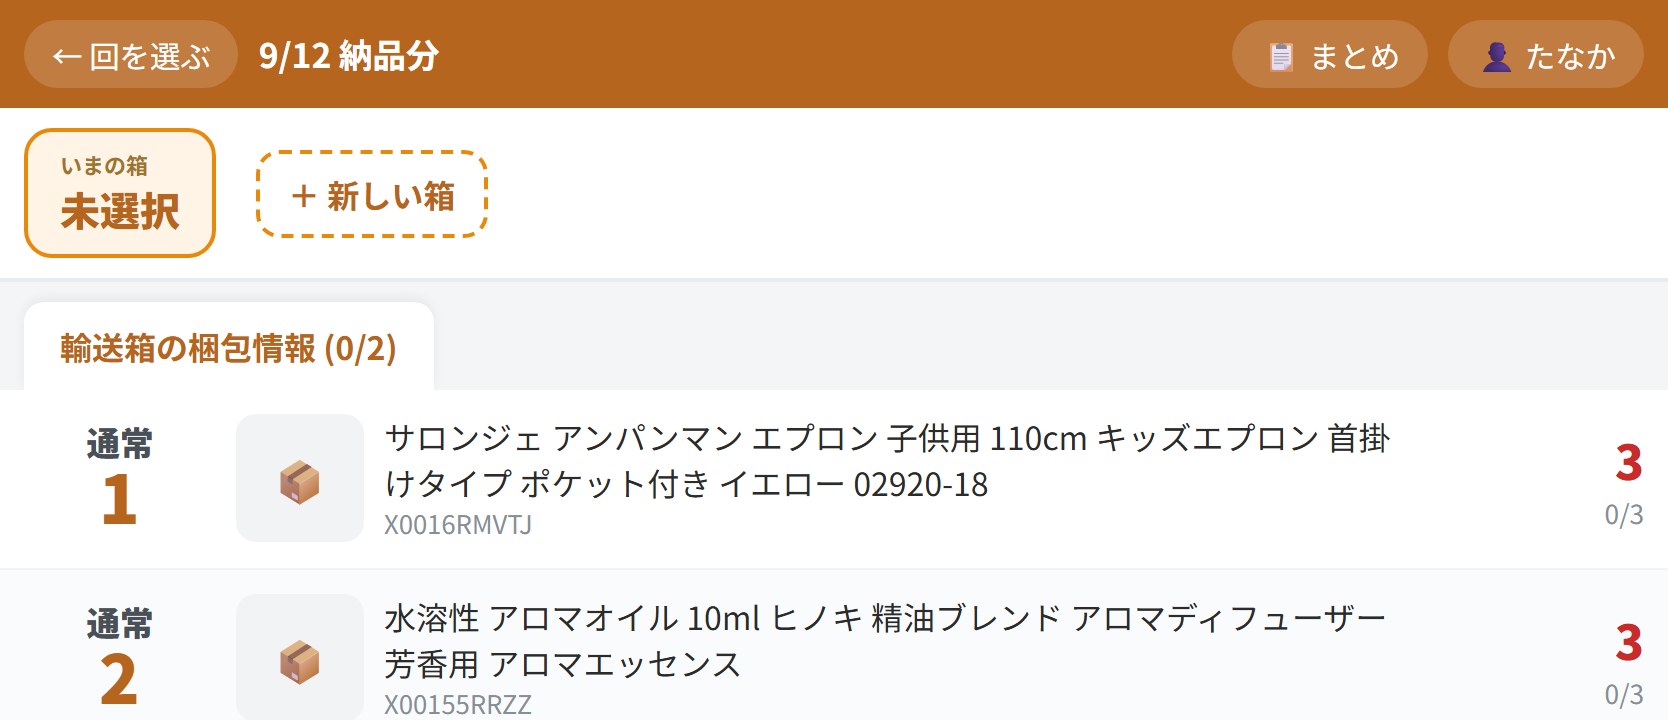
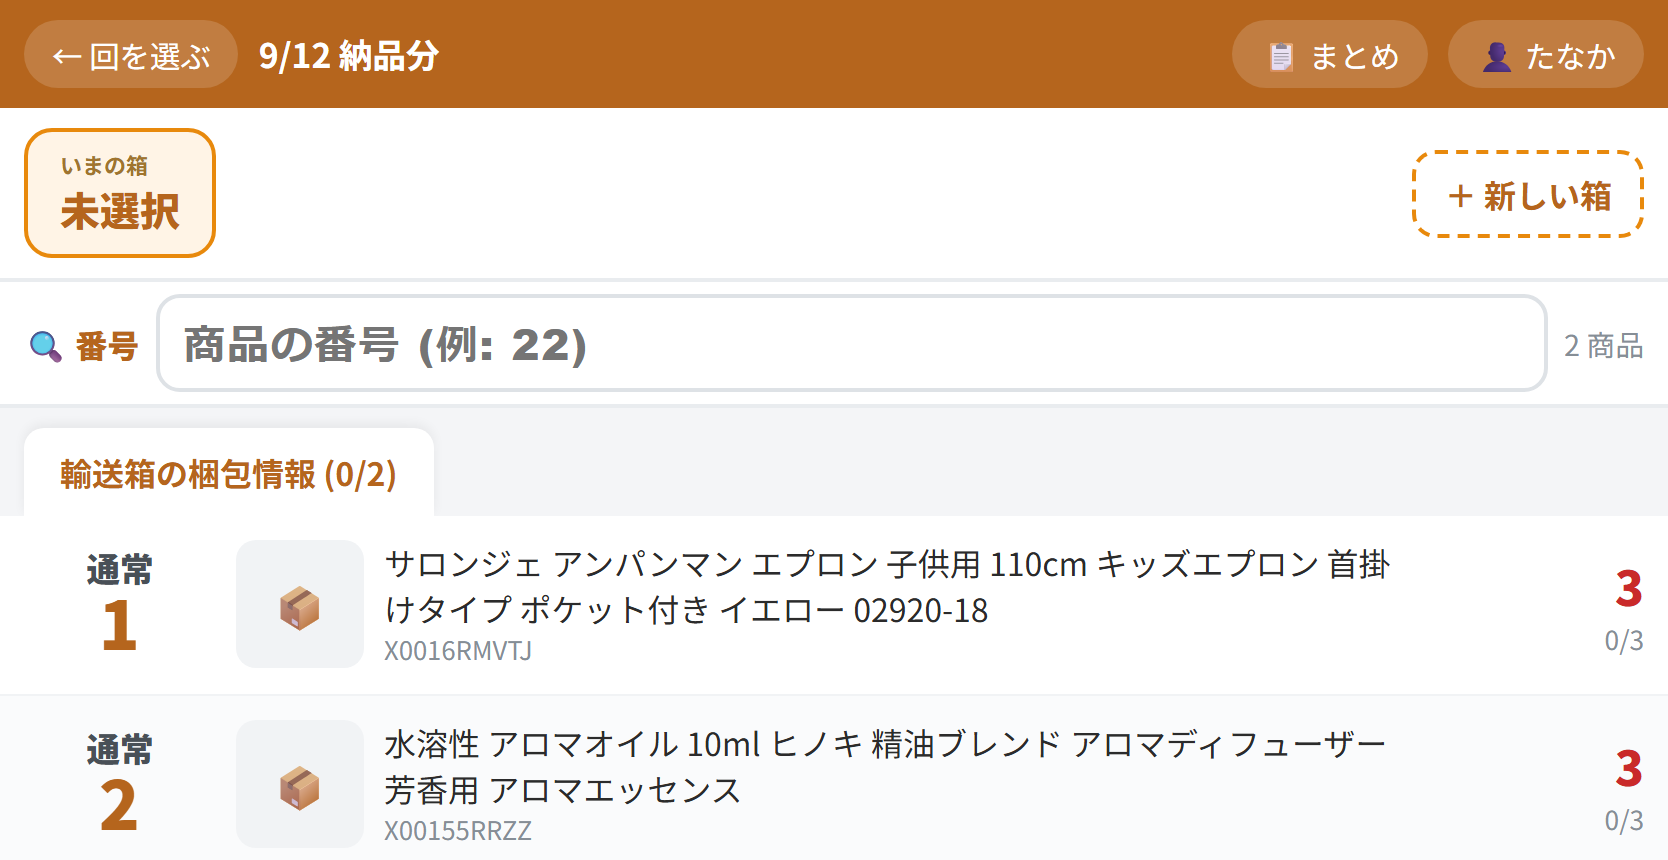
FBA箱詰め: つかいかたを 9/24 のアップデートに合わせる + アップデート内容のお知らせ (#1432)
* FBA箱詰め: つかいかたを 9/24 のアップデートに合わせる + 「アップデート内容」と回の一覧のお知らせ

中原さん 2026-09-24「マニュアルも更新して。更新したところだけ分かるように、アップデート内容みたいな感じで」
- つかいかたの冒頭に「🆕 9/24 のアップデート」(8 項目・各項目から本文へ飛べる)。本文の変わったところに 🆕 9/24 の印
- 本文を今の画面に: 番号で探す・商品→箱・別の箱にも入れる・下に固定の「入れた」・箱の中身/読み合わせから数を直す・
  通信が切れたときの新しい知らせ 3 つ・送る数を直しても入れかけの数が残る
- 画像を撮り直し (m01〜m10) + 追加 (m11 番号で探す / m12 別の箱にも入れる / m13 数を直す)
- 回の一覧に「🆕 9/24 アップデート … → 何が変わったか見る」。✕ で端末ごとに消せる (版を変えればまた出る)
- 数を直す画面に「やめる (直さない)」(背景タップしか出口が無かった)

* FBA箱詰め: Codex R1 対応 (返事が落ちたら「やめる (直さない)」と言わない・番号で探すの説明を前方一致に合わせる)

* FBA箱詰め: Codex R2 対応 (返事が落ちたあとの案内は「直ったかはまだ分かりません」)

---------

diff --git a/apps/fba-box/views/manual.html b/apps/fba-box/views/manual.html
@@ -56,6 +56,15 @@
   th,td{border:1px solid var(--line);padding:8px 10px;text-align:left;vertical-align:top}
   th{background:var(--well);width:34%}
   footer{color:var(--faint);font-size:.85rem;text-align:center;margin-top:20px}
+  /* 🆕 アップデート内容 (変わったところだけ先に読めるように。本文の変わった所にも同じ印) */
+  .tag.new{background:#E8890C;color:#fff;margin-right:4px}
+  section.updates{border:2px solid #E8890C;background:#FFFBF5}
+  section.updates h2 .no{background:#E8890C}
+  .upd{display:grid;grid-template-columns:1fr;gap:10px;margin:10px 0 0;padding:0;list-style:none}
+  .upd li{background:var(--surface);border:1px solid var(--line);border-radius:12px;padding:10px 14px}
+  .upd li b.t{display:block;font-size:1.05rem;margin-bottom:2px}
+  .upd li a{color:var(--accent);font-weight:700;text-decoration:none;white-space:nowrap}
+  .upd .who{display:inline-block;font-size:.8rem;font-weight:700;border-radius:6px;padding:0 6px;margin-left:6px;background:var(--well);color:var(--sub)}
 </style>
 </head>
 <body>
@@ -67,6 +76,7 @@
 <main>
   <nav class="toc">
     <h2>もくじ</h2>
+    <p style="margin:0 0 6px"><a href="#updates">🆕 9/24 のアップデート (変わったところだけ見る)</a></p>
     <ol>
       <li><a href="#s1">回と名前をえらぶ</a></li>
       <li><a href="#s2">箱をつくる</a></li>
@@ -80,6 +90,31 @@
       <li><a href="#s10">職員: まとめ・箱札・作業を終える</a></li>
     </ol>
   </nav>
+
+  <section class="updates" id="updates">
+    <h2><span class="no">🆕</span>9/24 のアップデート</h2>
+    <p class="why">いろはのみなさんの声から直しました。変わったところだけ、ここにまとめています (本文の <span class="tag new">🆕 9/24</span> の印も同じところです)。</p>
+    <ul class="upd">
+      <li><b class="t">🔍 商品の番号で探せます</b>
+        作業画面の上の <b>🔍 番号</b> に、利用者さんが言った番号 (例: 通常_22 なら <b>22</b>) を入れると、その番号の商品がいちばん上に出ます
+        (同じ数字で始まる商品も下に出ます)。キーボードの <kbd>開く</kbd> で、その番号の商品の画面がそのまま開きます。もうスクロールして探さなくて大丈夫です。 <a href="#s3">→ 3 を見る</a></li>
+      <li><b class="t">📦 商品 → 箱 の順で入れられます</b>
+        先に箱を選ばなくても、<b>商品の画面で入れる箱を選べます</b>。「いまの箱」があれば、その箱に残り全部が入った状態で開きます。 <a href="#s3">→ 3 を見る</a></li>
+      <li><b class="t">✂ 1 つの商品を何箱にも分けて入れられます</b>
+        「1 箱目に 6 個・2 箱目に 4 個」のときは、<kbd>＋ 別の箱にも入れる</kbd> で箱を足して、<b>1 回で記録</b>できます。 <a href="#s3">→ 3 を見る</a></li>
+      <li><b class="t">⬇ 「入れた」ボタンは画面のいちばん下にいつも出ています</b>
+        商品の画面をスクロールしなくても押せます。 <a href="#s3">→ 3 を見る</a></li>
+      <li><b class="t">✏ 箱の中身から数を直せます</b>
+        箱のボタン (例: G1-1) → 中身の行の <kbd>数を直す</kbd>。箱を閉じる前の<b>読み合わせ</b>の画面からも <kbd>直す</kbd> で直せます。
+        数を直す画面には、<b>どの箱の記録か・記録した時刻・入れた人</b> が出ます。 <a href="#s4">→ 4 を見る</a></li>
+      <li><b class="t">📶 通信が切れたときの知らせを増やしました</b>
+        前の記録が入らなかったときは「<b>いま押した分は、まだ記録していません</b>」と出ます。入力はそのまま残るので、箱を確かめてから押し直してください。 <a href="#s8">→ 8 を見る</a></li>
+      <li><b class="t">🕘 記録の時刻が正しく出るようになりました</b>
+        これまで 9 時間ずれて出ていました (10:15 に入れたのに 01:15 など)。</li>
+      <li><b class="t">🔑 送る数を直しても、入れかけの数が消えません</b><span class="who">職員</span>
+        <kbd>送る数を直す</kbd> から商品の画面に戻っても、箱ごとに入れかけていた数はそのままです。 <a href="#s10">→ 10 を見る</a></li>
+    </ul>
+  </section>
 
   <div class="callout">
     この画面は <b>「どの商品を、どの箱に、何個入れたか」を記録する</b> ためのものです。<br>
@@ -132,22 +167,26 @@
     <h2><span class="no">3</span>商品を箱に入れる</h2>
     <p class="why">なぜ: 実際に入れた数と記録がずれると、Amazon で数が合わずに調査になります。</p>
     <ol class="steps">
-      <li>上の <b>🔍 番号</b> に <b>商品の番号</b> (例: 通常_22 なら <b>22</b>) を入れると、その商品だけが出ます。
-        キーボードの <kbd>開く</kbd> (Enter) で、そのまま商品の画面が開きます。一覧から <b>商品の行</b> をタップしても開けます。</li>
+      <li><span class="tag new">🆕 9/24</span>上の <b>🔍 番号</b> に <b>商品の番号</b> (例: 通常_22 なら <b>22</b>) を入れると、その番号の商品がいちばん上に出ます (「2」なら 2・20〜29 のように、同じ数字で始まる商品も下に出ます)。
+        キーボードの <kbd>開く</kbd> (Enter) で、その番号の商品の画面がそのまま開きます。一覧から <b>商品の行</b> をタップしても開けます。</li>
       <li>商品名と <b>FNSKU の下4桁</b> を見て、手に持っているものと同じか確かめます (🔊 で読み上げできます)。</li>
-      <li><b>📦 どの箱に何個</b>: 「いまの箱」があるときは、<b>その箱に残り全部が入った 1 行だけ</b> が出ます。そのままで良ければ次へ。
+      <li><span class="tag new">🆕 9/24</span><b>📦 どの箱に何個</b>: 「いまの箱」があるときは、<b>その箱に残り全部が入った 1 行だけ</b> が出ます。そのままで良ければ次へ。
         <kbd>−</kbd> <kbd>＋</kbd> や数字で直せます。
         「いまの箱」が無いときは箱のボタンが並ぶので、<b>入れた箱を押してください</b> (残り全部がその箱に入ります)。</li>
-      <li>入れたら <kbd>… 入れた</kbd> をタップ (例: <kbd>通常-1 に 10個 入れた</kbd>)。このボタンは <b>画面のいちばん下にいつも出ています</b> (スクロールしなくても押せます)。</li>
+      <li><span class="tag new">🆕 9/24</span>入れたら <kbd>… 入れた</kbd> をタップ (例: <kbd>通常-1 に 10個 入れた</kbd>)。このボタンは <b>画面のいちばん下にいつも出ています</b> (スクロールしなくても押せます)。</li>
     </ol>
+    <figure><img src="/app-images/fba-box/manual/m11-find.png" alt="番号で探した画面"><figcaption><span class="tag new">🆕 9/24</span>「2」と入れると 2 番の商品がいちばん上に (20〜29 番があればその下に) 出ます。キーボードの「開く」で 2 番がそのまま開きます</figcaption></figure>
     <div class="callout">
-      <b>1 つの商品を 2 つ以上の箱に分けるとき</b> (例: 1箱目に 6個・2箱目に 4個): 1 箱目の数を 6 に直してから
+      <span class="tag new">🆕 9/24</span><b>1 つの商品を 2 つ以上の箱に分けるとき</b> (例: 1箱目に 6個・2箱目に 4個): 1 箱目の数を 6 に直してから
       <kbd>＋ 別の箱にも入れる</kbd> → 2 箱目のボタンを押すと、残りの 4 個がその箱に入ります。
       <kbd>2箱に 合計 10個 入れた</kbd> を 1 回押すだけです。箱が足りなければ、同じところの <kbd>＋ 新しい箱をつくる</kbd> — つくった箱に残りが入った状態で戻ります。
       <br>箱の名前を押すと、まだ割り振っていない残りがその箱に入ります。
       <br>合計が残りを超えると赤く出て、押せません。
     </div>
-    <figure><img src="/app-images/fba-box/manual/m05-row.png" alt="商品の画面"><figcaption>「残り」が 0 になれば その商品は終わりです</figcaption></figure>
+    <div class="two">
+      <figure><img src="/app-images/fba-box/manual/m05-row.png" alt="商品の画面"><figcaption>「いまの箱」に残り全部が入った状態で開きます。いちばん下の <b>… 入れた</b> を押すだけ。「残り」が 0 になれば その商品は終わりです</figcaption></figure>
+      <figure><img src="/app-images/fba-box/manual/m12-otherbox.png" alt="別の箱にも入れる"><figcaption><span class="tag new">🆕 9/24</span><b>＋ 別の箱にも入れる</b> を押すと、ほかの箱のボタンが出ます。押した箱に残りが入ります</figcaption></figure>
+    </div>
     <ul class="notes">
       <li><b>置いた場所</b> (下・中・上) は、分かるときだけで大丈夫です。箱を 2 つ以上に分けたときは記録しません。</li>
       <li>番号の欄は、入れ終わると空に戻ります (次の番号をそのまま打てます)。番号がこのタブに無いときは、ある方のタブへ切り替えるボタンが出ます。</li>
@@ -165,10 +204,11 @@
     <p class="why">なぜ: 直せることを知らないと、その場で黙って進んでしまい、あとから分からなくなります。</p>
     <table>
       <tr><th>すぐ気づいた</th><td>下に出ている <kbd>元に戻す</kbd> を押す</td></tr>
-      <tr><th>数をまちがえた</th><td><b>箱から直す</b>: 上の箱のボタン (例: <kbd>通常-1</kbd>) → 中身の行の <kbd>数を直す</kbd><br><b>商品から直す</b>: その商品の行をタップ → <b>📝 この商品の記録</b> の <kbd>数を直す</kbd><br>箱を閉じる前の<b>読み合わせ</b>で気づいたら、その行の <kbd>直す</kbd> (直したら読み合わせからやり直し)</td></tr>
+      <tr><th>数をまちがえた</th><td><span class="tag new">🆕 9/24</span><b>箱から直す</b>: 上の箱のボタン (例: <kbd>通常-1</kbd>) → 中身の行の <kbd>数を直す</kbd><br><b>商品から直す</b>: その商品の行をタップ → <b>📝 この商品の記録</b> の <kbd>数を直す</kbd><br>箱を閉じる前の<b>読み合わせ</b>で気づいたら、その行の <kbd>直す</kbd> (直したら読み合わせからやり直し)</td></tr>
       <tr><th>ちがう箱に入れた</th><td>同じところの <kbd>取消</kbd> → 正しい箱をえらんで入れ直す</td></tr>
       <tr><th>閉じた箱を直したい</th><td>直すと箱が開きます。<b>重さを量り直して</b>もう一度閉じてください</td></tr>
     </table>
+    <figure><img src="/app-images/fba-box/manual/m13-adjust.png" alt="数を直す画面"><figcaption><span class="tag new">🆕 9/24</span>どの箱の記録か・記録した時刻・入れた人が出ます。<b>正しい個数</b> を入れて <b>この数に直す</b>。やめるときは <b>やめる (直さない)</b>。空欄のままでは直りません (取り消すときは 0)</figcaption></figure>
     <div class="callout">直すのに職員の PIN は要りません。<b>まちがいはその場で直すのが一番安いです。</b></div>
   </section>
 
@@ -178,6 +218,7 @@
     <ol class="steps">
       <li>上の <b>箱のボタン</b> (例: G1-1) をタップします。</li>
       <li>中身が出ます。見ただけのときは <kbd>閉じる (見ただけ)</kbd> でもどります。</li>
+      <li><span class="tag new">🆕 9/24</span>数がちがっていたら、その行の <kbd>数を直す</kbd>。まちがえて入れた記録は <kbd>取消</kbd> (これまでの「↩」です)。</li>
     </ol>
     <figure><img src="/app-images/fba-box/manual/m07-boxdlg.png" alt="箱の中身の画面"><figcaption>「閉じる (見ただけ)」は画面を閉じるだけ。箱の開け閉めは変わりません</figcaption></figure>
     <div class="callout warn">
@@ -198,6 +239,7 @@
     </ol>
     <figure><img src="/app-images/fba-box/manual/m08-close.png" alt="読み合わせの画面"><figcaption>まだ閉じたくないときは「やめる (まだ閉じない)」でもどれます</figcaption></figure>
     <ul class="notes">
+      <li><span class="tag new">🆕 9/24</span>読み合わせで <b>数のちがい</b> に気づいたら、その行の <kbd>直す</kbd>。直すと箱の画面に戻るので、<b>読み合わせからやり直して</b>ください。</li>
       <li>読み合わせの途中で <b>他の iPad から中身が直された</b>ときは、「もう一度読み合わせてください」と出ます。やり直してください。</li>
     </ul>
   </section>
@@ -229,7 +271,12 @@
             <tr><th>⚠ 通信できません<br>(赤い帯)</th><td>こちらは<b>電波が届いていない</b>ときです。<b>もう <kbd>入れた</kbd> を押した分は、端末にたまっていて自動で送られます</b> (二重に入れないでください)。
 つながると「さっきの分は記録できています / できませんでした」と出るので、そこで確かめます。<br>
 <b>まだ押していない分</b>は紙にメモして、つながってから入れてください</td></tr>
-      <tr><th>送信中…</th><td>返事を待っています。この間はボタンが押せません。<b>そのまま待ってください</b></td></tr>
+      <tr><th>送信中…</th><td>返事を待っています。この間はボタンが押せません (画面も閉じられません)。<b>そのまま待ってください</b></td></tr>
+      <tr><th><span class="tag new">🆕 9/24</span>⚠ さっきの分は記録できませんでした<br>+ いま押した分は、まだ記録していません</th><td>前に押した分が入っていませんでした。<b>いま押した分も、まだ送っていません</b> (自動では送りません)。
+<kbd>わかりました</kbd> を押すと、入力したままの商品の画面に戻ります。<b>箱の中身を確かめてから</b>、もう一度 <kbd>入れた</kbd> を押してください (前の分も入れてあれば、職員を呼んでください)</td></tr>
+      <tr><th><span class="tag new">🆕 9/24</span>⚠ まだ記録していない分があります</th><td>上の画面の途中で iPad が閉じたときに出ます。<kbd>この商品の画面を開く</kbd> で、入力したままの画面が開きます。
+箱に入れていない・もう記録したなら <kbd>この控えを消す</kbd></td></tr>
+      <tr><th><span class="tag new">🆕 9/24</span>❓ 取り消せたか分かりません</th><td><kbd>元に戻す</kbd> の返事が届かなかったときです。通信が戻ってから <kbd>もう一度取り消す</kbd> (押し直しても二重には取り消しません)</td></tr>
       <tr><th>送れませんでした<br>まだ閉じていません</th><td>箱は開いたままです。<b>もう一度</b> 確定を押してください</td></tr>
       <tr><th>❓ 送れたかどうか<br>分かりません</th><td>通信が戻ってから <b>もう一度</b> 確定を押してください。すでに閉じていれば「既に閉じられています」と出ます</td></tr>
     </table>
@@ -265,13 +312,14 @@
     <figure><img src="/app-images/fba-box/manual/m10-summary.png" alt="まとめの画面"><figcaption>赤い行が残っていること。緑になれば本社が Excel を出せます</figcaption></figure>
     <ul class="notes">
       <li>中身の入った箱が開いたままだと終われません。先に閉じてください。</li>
+      <li><span class="tag new">🆕 9/24</span>商品の画面の <kbd>送る数を直す</kbd> から戻っても、箱ごとに入れかけていた数は消えません。送る数を減らして残りを超えたときは赤く出ます (送る数を 0 にしたときは「記録できません」と出て、数はそのまま残ります)。</li>
       <li>作業を終えると、<b>本社の Google チャットに「終わりました」の知らせと一覧のリンクが届きます</b>。本社はそれを見て送り状と箱ラベルを用意します。</li>
       <li>知らせが届いたかは、回の一覧の <kbd>完了 ・ 結果を見る ›</kbd> の「細かい情報」にある <kbd>📨 本社の Google チャットへの知らせ</kbd> の横に出ます (届いていれば <b>✅ 送りました</b>。送れていないときは、はじめから開いて出ます)。本社に「届いていない」と言われたら、その見出しを押して開き <kbd>🔁 もう一度送る</kbd> → <kbd>送る</kbd>。頭に【再送】と付いて届きます (PIN は要りません)。</li>
       <li>入っていない商品があっても、破損や自社出荷などで納品しないなら <b>それでも完了</b> できます。残りは「今回は納品しない」として本社の画面に出ます。</li>
     </ul>
   </section>
 
-  <footer>B-Faith 社内ポータル / FBA箱詰め記録 — 画面が変わったらこのページも直します</footer>
+  <footer>B-Faith 社内ポータル / FBA箱詰め記録 — 画面が変わったらこのページも直します (最終更新 2026-09-24)</footer>
 </main>
 </body>
 </html>

diff --git a/apps/fba-box/views/index.html b/apps/fba-box/views/index.html
@@ -240,6 +240,11 @@
         <a class="chip" style="background:#E9ECEF; color:#495057; text-decoration:none" href="./manual" target="_blank">📖 つかいかた</a>
         <button class="chip" style="background:#E9ECEF; color:#495057" id="btn-roster">👥 名簿</button>
       </div>
+      <!-- 🆕 アップデートのお知らせ。版を上げたら UPDATE_ID も変える (✕ で消した端末にも、新しい版はまた出る) -->
+      <div id="updbar" class="hidden" style="display:flex; align-items:center; gap:10px; background:#FFF4E6; border:2px solid #E8890C; border-radius:12px; padding:10px 12px; margin-bottom:12px">
+        <a href="./manual#updates" target="_blank" style="flex:1; color:#8A4B00; font-weight:800; text-decoration:none; line-height:1.5">🆕 9/24 アップデート: 番号で探す・1 つの商品を何箱にも分けて入れる・箱の中身から数を直す <span style="text-decoration:underline">→ 何が変わったか見る</span></a>
+        <button id="updbar-x" class="chip" style="background:#E9ECEF; color:#495057; flex:none" aria-label="お知らせを閉じる">✕</button>
+      </div>
       <div id="runlist">読み込み中…</div>
     </div>
     <div class="card" style="text-align:center; color:#868E96; font-size:0.9em">
@@ -2359,7 +2364,15 @@ ${j.message || ''}
       <div class="lbl">正しい個数 (0 = この記録を取り消す)</div>
       <input class="qtyin" id="a-qty" type="tel" inputmode="numeric" value="${currentQty}">
       <div style="margin-top:14px"><button class="bigbtn" id="a-go">この数に直す</button></div>
+      <div style="margin-top:8px"><button class="bigbtn sub" id="a-cancel">やめる (直さない)</button></div>
       <div class="msg" id="a-msg"></div>`);
+    // 出口を画面に出す (背景タップしか無いと「どこも押せない」に見える)。直したあとの戻り先と同じ画面へ戻る
+    dlg.querySelector('#a-cancel').addEventListener('click', async () => {
+      if (busy) return;
+      closeDialog();
+      if (opts && opts.after) { await opts.after(); return; }
+      await refresh(true); if (!dialogOpen) openRowDialog(row.id);
+    });
     // 操作ID は「同じ数を押し直すあいだ」使い続ける。返事が落ちて押し直したとき、サーバーは同じ修正として
     // 前の結果を返す (二重に直さない)。数を変えたら新しい ID (Codex PR #1421 R1 #7: 以前は押すたびに新しい ID だった)
     let requestId = null, sentQty = null, busy = false;
@@ -2378,16 +2391,20 @@ ${j.message || ''}
       const goBtn = ev.currentTarget;
       // 送信中は背景タップでも閉じない。閉じて別の画面を開くと、遅れて来た返事がその画面を閉じてしまう (Codex PR #1430 R1 #3)
       busy = true; goBtn.disabled = true; dialogLocked = true;
+      const cancelBtn = dlg.querySelector('#a-cancel'); if (cancelBtn) cancelBtn.disabled = true;
       msg.className = 'msg'; msg.textContent = '送信中…';
       let j;
       try { j = await apiPost(`/api/placements/${placementId}/adjust`, { worker_id: worker.id, qty, request_id: requestId }); }
       catch { j = { ok: false, error: 'no_body' }; }
-      busy = false; goBtn.disabled = false;
+      busy = false; goBtn.disabled = false; if (cancelBtn) cancelBtn.disabled = false;
       const mine = $('#ovl-root .dlg') === dlg;
       if (mine) dialogLocked = false;
       if (!j.ok && (j.error === 'no_body' || j._status >= 500)) {
         msg.className = 'msg err';
         msg.textContent = '返事が届きませんでした。通信が戻ってから、同じ数のままもう一度押してください (二重には直りません)';
+        // 🚨 直ったかどうか分からない。「やめる (直さない)」と言うと嘘になりうる → 言い換える (Codex PR #1432 R1 #1)
+        // 戻った画面も通信が戻るまでは古いことがある (R2) → 「まだ分からない」ことをそのまま書く
+        if (cancelBtn) cancelBtn.textContent = '画面を閉じる (直ったかはまだ分かりません — 通信が戻ってから記録を確かめる)';
         return;
       }
       // 予定を超える: サーバーの文は「取り消してから入れ直す」途中の数 (入力済み 0 など) で分かりにくいので、この画面の言葉で言い直す
@@ -2489,6 +2506,15 @@ ${j.message || ''}
       });
     });
   }
+
+  // ─── アップデートのお知らせ (端末ごとに ✕ で閉じられる。版が変われば また出る) ───
+  const UPDATE_ID = '2026-09-24';
+  (function initUpdateBar() {
+    const bar = $('#updbar');
+    if (!bar) return;
+    if (LS.get('upd_seen', null) !== UPDATE_ID) bar.classList.remove('hidden');
+    $('#updbar-x').addEventListener('click', () => { LS.set('upd_seen', UPDATE_ID); bar.classList.add('hidden'); });
+  })();
 
   // ─── 初期化 ───
   $('#btn-back').addEventListener('click', backToRuns);
